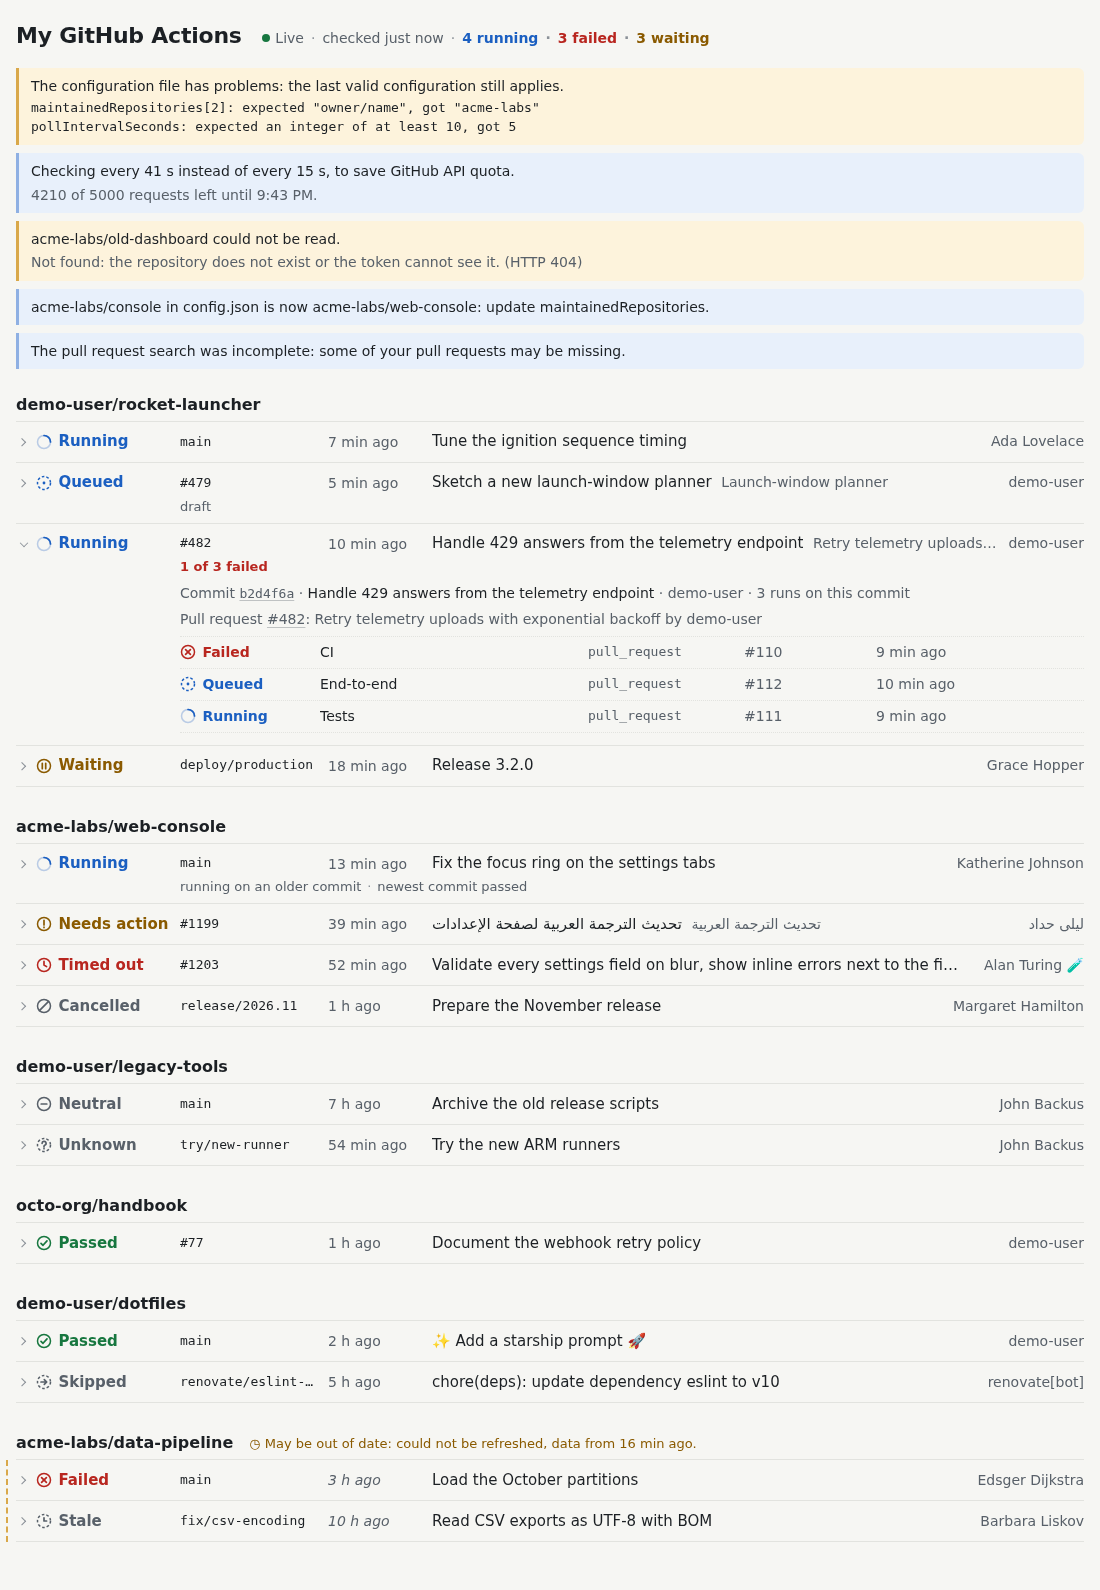
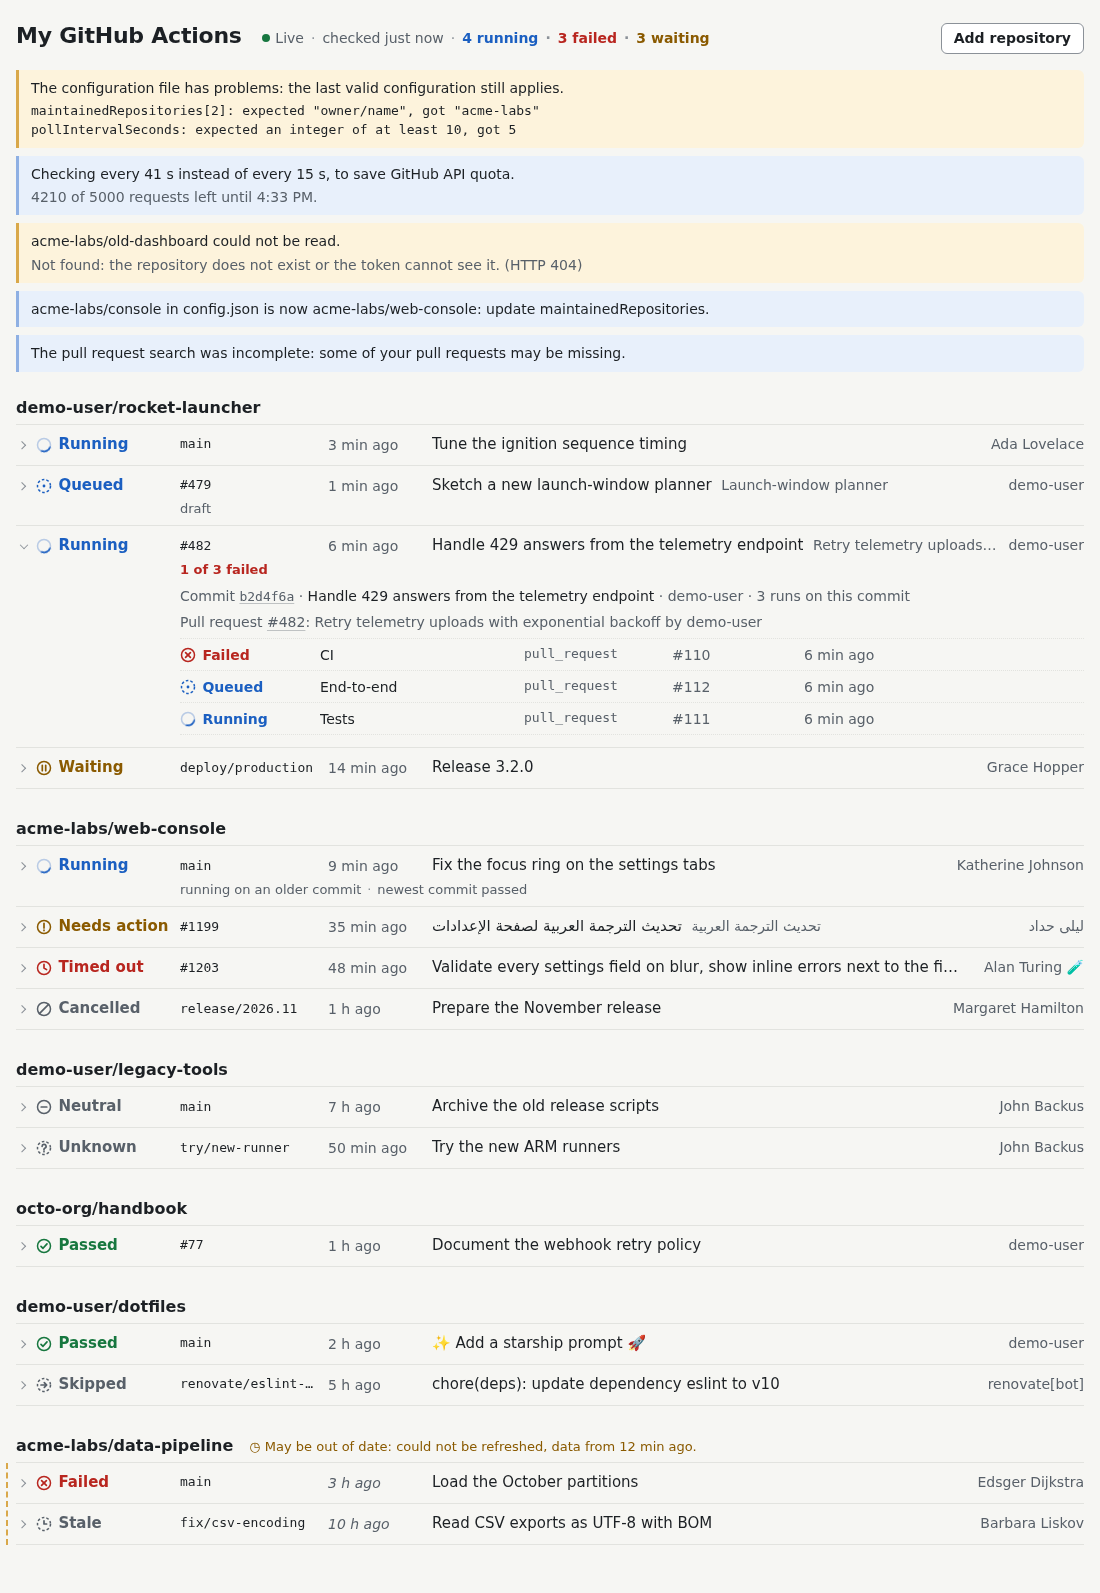
docs: describe adding repositories from the page
A section on the dialog with its screenshot, the three new routes and
their errors, the `--read-only` flag, the changed security stance (the
server no longer answers `GET` and `HEAD` only), and what a token needs
to read private repositories of an organisation.

The page's screenshot is taken again: the header has a new button.

diff --git a/README.md b/README.md
@@ -4,7 +4,7 @@ A small local web page that shows, in real time, the GitHub Actions runs I care 
 
 - runs linked to my open pull requests (in any repository),
 - runs in my own repositories,
-- runs in repositories I maintain (an editable list).
+- runs in any other repository I add, public or private, of any organisation or account.
 
 One section per repository, one line per branch or pull request: state, ref, date, commit title
 and author. It updates by itself, and the tab title and icon say whether something is running or
@@ -24,7 +24,7 @@ pnpm start                 # then open http://127.0.0.1:4680/
 That is all if the [GitHub CLI](https://cli.github.com/) is logged in (`gh auth login`); otherwise
 set `GITHUB_TOKEN` (see [Token](#token)). Without a configuration file the page shows your own
 repositories pushed to in the last 30 days and every repository where you have an open pull
-request; add the repositories you maintain in [`config.json`](#configuration).
+request; add others with the page's [**Add repository**](#adding-repositories) button.
 
 ```sh
 pnpm start --port 4700 --config ~/my-viewer.json
@@ -73,6 +73,35 @@ A repository the server could not refresh keeps its earlier lines, marked by a d
 Actions", and the tab icon is green (all quiet), blue (running or waiting), red (failed) or grey
 (disconnected).
 
+## Adding repositories
+
+**Add repository**, next to the status line, watches one more repository: any repository the token
+can read, public or private, whoever owns it (another organisation, another account).
+
+![The “Add a repository” dialog in demo mode: a field, the repositories offered below it marked public or private, and the repositories added so far, each with a Remove button](docs/add-repository.png)
+
+- Below the field are the repositories GitHub lists for you: the ones you own, collaborate on or
+  reach through an organisation, most recently pushed first, without the archived ones. Typing
+  narrows the list; click a repository, or reach it with the arrow keys, to add it.
+- Any other repository, such as someone else's public one, is added by its full name: type
+  `owner/name` (or paste its GitHub address) and press Enter. The server checks with GitHub that
+  the token can read it, and says so if it cannot.
+- **Added repositories** lists what was added so far, each with a **Remove** button.
+
+A repository that is added shows its default branch and your open pull requests, and its other
+branches and pull requests while their runs are active (see [Configuration](#configuration)). It
+only appears on the page once it has a workflow run to show.
+
+Adding and removing edit `maintainedRepositories` in [`config.json`](#configuration), which is
+created if there is none; editing that key by hand does the same. The file is rewritten as
+indented JSON, keeping its other keys and their order. Adding a repository listed in
+`excludedRepositories` also takes it off that list. While the file has problems the dialog changes
+nothing: fix the file first. Start the server with `--read-only` to remove the button and never
+have the file written.
+
+If a private repository of an organisation is neither offered nor found, the token cannot read it
+(see [Token](#token)).
+
 ## Configuration
 
 The viewer reads a `config.json` file. Every key is optional; [`config.example.json`](config.example.json)
@@ -82,7 +111,7 @@ compared case-insensitively.
 
 | Key                               | Default | Meaning                                                                                                                           |
 | --------------------------------- | ------- | --------------------------------------------------------------------------------------------------------------------------------- |
-| `maintainedRepositories`          | `[]`    | Repositories to watch in addition to your own, e.g. `["example-org/example-service"]`.                                            |
+| `maintainedRepositories`          | `[]`    | Repositories to watch in addition to your own, e.g. `["example-org/example-service"]`; the page's **Add repository** edits it.    |
 | `excludedRepositories`            | `[]`    | Repositories never shown, even if you own them, maintain them or have a pull request there.                                       |
 | `includeOwnRepositories`          | `true`  | Watch the repositories you own.                                                                                                   |
 | `ownRepositoriesPushedWithinDays` | `30`    | Only watch your own repositories pushed to within this many days (an integer ≥ 1), to skip dormant ones; `null` watches them all. |
@@ -110,7 +139,9 @@ dotfiles repository), and the file and its directory may be created after the se
 
 The server collects at the configured interval, never two collections at once. An unchanged
 collection costs nothing (GitHub answers `304 Not Modified`), but each repository with a running
-workflow costs about one request per poll. When the latest collection's cost, repeated until the
+workflow costs about one request per poll. Opening the **Add repository** dialog lists your
+repositories (one request per hundred, free again while the list has not changed, and at most
+once a minute), and adding one costs one more request. When the latest collection's cost, repeated until the
 quota resets, would leave less than 20 % of the hourly quota for your other tools, the interval is
 stretched to fit (and shrinks back when activity drops). After a rate limit, nothing is sent until
 GitHub allows it.
@@ -132,11 +163,35 @@ The server listens on `127.0.0.1` only. All responses are same-origin; there is 
 | `GET /api/events`   | A [Server-Sent Events](https://html.spec.whatwg.org/multipage/server-sent-events.html) stream. |
 | `GET /…`            | The page's static files, from `dist/web/` (`/` is `index.html`).                               |
 
+and, unless the server runs with `--read-only`, the routes behind the page's
+[**Add repository**](#adding-repositories) dialog:
+
+| Route                                                | Response                                                                      |
+| ---------------------------------------------------- | ----------------------------------------------------------------------------- |
+| `GET /api/repositories`                              | A `RepositoryCatalogue`: the repositories GitHub lists for you, to offer.     |
+| `PUT /api/maintained-repositories/{owner}/{name}`    | Adds the repository to `maintainedRepositories`; answers a `WatchListChange`. |
+| `DELETE /api/maintained-repositories/{owner}/{name}` | Removes it; answers a `WatchListChange`.                                      |
+
+`PUT` and `DELETE` take no body, do nothing when there is nothing to do (`changed: false`), and
+need an `Origin` header naming the server itself, which a browser adds on its own:
+
+```sh
+curl -X PUT -H 'Origin: http://127.0.0.1:4680' \
+  http://127.0.0.1:4680/api/maintained-repositories/example-org/example-service
+```
+
+Their errors are JSON, `{ "error": "…" }`, with a message for the reader: `400` for something
+that is not an `owner/name`, `404` for a repository GitHub does not find or the token cannot
+read, `403` when GitHub denies access (the message says why), `409` while the configuration file
+has problems, `429` during a GitHub rate limit, `502` or `504` when GitHub fails or cannot be
+reached, `500` when the file cannot be written.
+
 The payload is a `PagePayload` ([`src/server/payload.ts`](src/server/payload.ts), types only, so
 the page can import it with `import type`): the core `Snapshot` (null until the first successful
 collection) and a `status` with when data was last checked and last collected successfully,
 whether it is stale and why, the repositories shown from earlier data, the poll interval (base and
-current, and why they differ), the API quotas, and the state of the configuration file.
+current, and why they differ), the API quotas, and the state of the configuration file (with the
+maintained repositories, and whether the page may edit them).
 
 The event stream sends:
 
@@ -147,7 +202,8 @@ The event stream sends:
   than 15 seconds can treat the connection as dead (`EventSource` reconnects by itself).
 
 At most 16 streams are open at once; more get `503`. Other methods than `GET` and `HEAD` get
-`405`, unknown paths `404`, and error bodies are a generic word or two.
+`405` (other than `PUT` and `DELETE` on a maintained repository), unknown paths `404`, and the
+error bodies of these routes are a generic word or two.
 
 ### Behind a reverse proxy
 
@@ -159,6 +215,9 @@ default port). With [Tailscale](https://tailscale.com/kb/1312/serve):
 pnpm start --allowed-host my-machine.my-tailnet.ts.net:4680
 tailscale serve --bg --https 4680 http://127.0.0.1:4680
 ```
+
+Whoever can open the page through the proxy can also add and remove repositories; add
+`--read-only` if they should only look.
 
 ### Security
 
@@ -173,7 +232,13 @@ send requests to `127.0.0.1`. So the server:
   browser marks as cross-site or same-site (`Sec-Fetch-Site`) or that carry a foreign `Origin`, so
   they do not even run. The one exception is opening the page in a tab from a link on another
   site (a top-level navigation, which the other site cannot read);
-- answers only `GET` and `HEAD`, and never sends anything to GitHub but `GET` requests;
+- answers only `GET` and `HEAD`, except for the two routes that add and remove a maintained
+  repository (`PUT` and `DELETE`, none with `--read-only`). These need an `Origin` header naming
+  the server, which browsers add to every `PUT` and `DELETE` and no page can forge; they take no
+  body; and the only thing they can change is the list of repository names in `config.json`, each
+  checked to be an `owner/name`. Another site cannot even send them: a cross-origin `PUT` or
+  `DELETE` starts with a preflight request, which is refused;
+- never sends anything to GitHub but `GET` requests;
 - sends `Content-Security-Policy: default-src 'none'; script-src 'self'; style-src 'self';
 img-src 'self'; connect-src 'self'; base-uri 'none'; form-action 'none'; frame-ancestors
 'none'` (no inline code, nothing from elsewhere, no framing), `X-Content-Type-Options: nosniff`,
@@ -194,6 +259,14 @@ The server and `pnpm run snapshot` use the first token found among:
 The token only needs to read: the tool sends nothing but `GET` requests. With a fine-grained token,
 grant read access to _Metadata_, _Pull requests_ and _Actions_ on the repositories to watch.
 
+What the token can read is what the page can show and [add](#adding-repositories). For private
+repositories a classic token needs the `repo` scope (the GitHub CLI's login has it), and a
+fine-grained token only reaches the repositories of the one owner it was created for. An
+organisation can restrict tokens further: with SAML single sign-on the token has to be authorised
+for the organisation, and for the GitHub CLI's login the organisation may have to approve the
+application. GitHub then answers as if the repository did not exist, or with a message that the
+dialog shows.
+
 `pnpm run snapshot` collects the page once and prints it, one line per branch or pull request,
 followed by the number of requests it took and the remaining API quota (`--json` prints the whole
 result as JSON). It reads the same configuration file as the server (`--config` works too).
@@ -211,7 +284,9 @@ pnpm demo --demo-variant first-load    # waiting for the first collection
 ([`src/demo/`](src/demo/)): no token, no configuration file, no request to GitHub. Every run state
 appears, along with a pull request failing while it still runs, a line running on an older commit,
 a draft, long, right-to-left and emoji text, a stale repository, a configuration problem and
-slowed-down polling. Every 30 seconds a running line finishes or starts again, to show live
+slowed-down polling. **Add repository** works too, on a made-up GitHub that knows a dozen
+repositories and keeps the list in memory: an added repository appears with a finished run, and
+any other name is answered like a repository GitHub does not find. Every 30 seconds a running line finishes or starts again, to show live
 updates. Use it to work on the page, to take screenshots, or to see every state. Stop the server to
 see the disconnected state.
 
